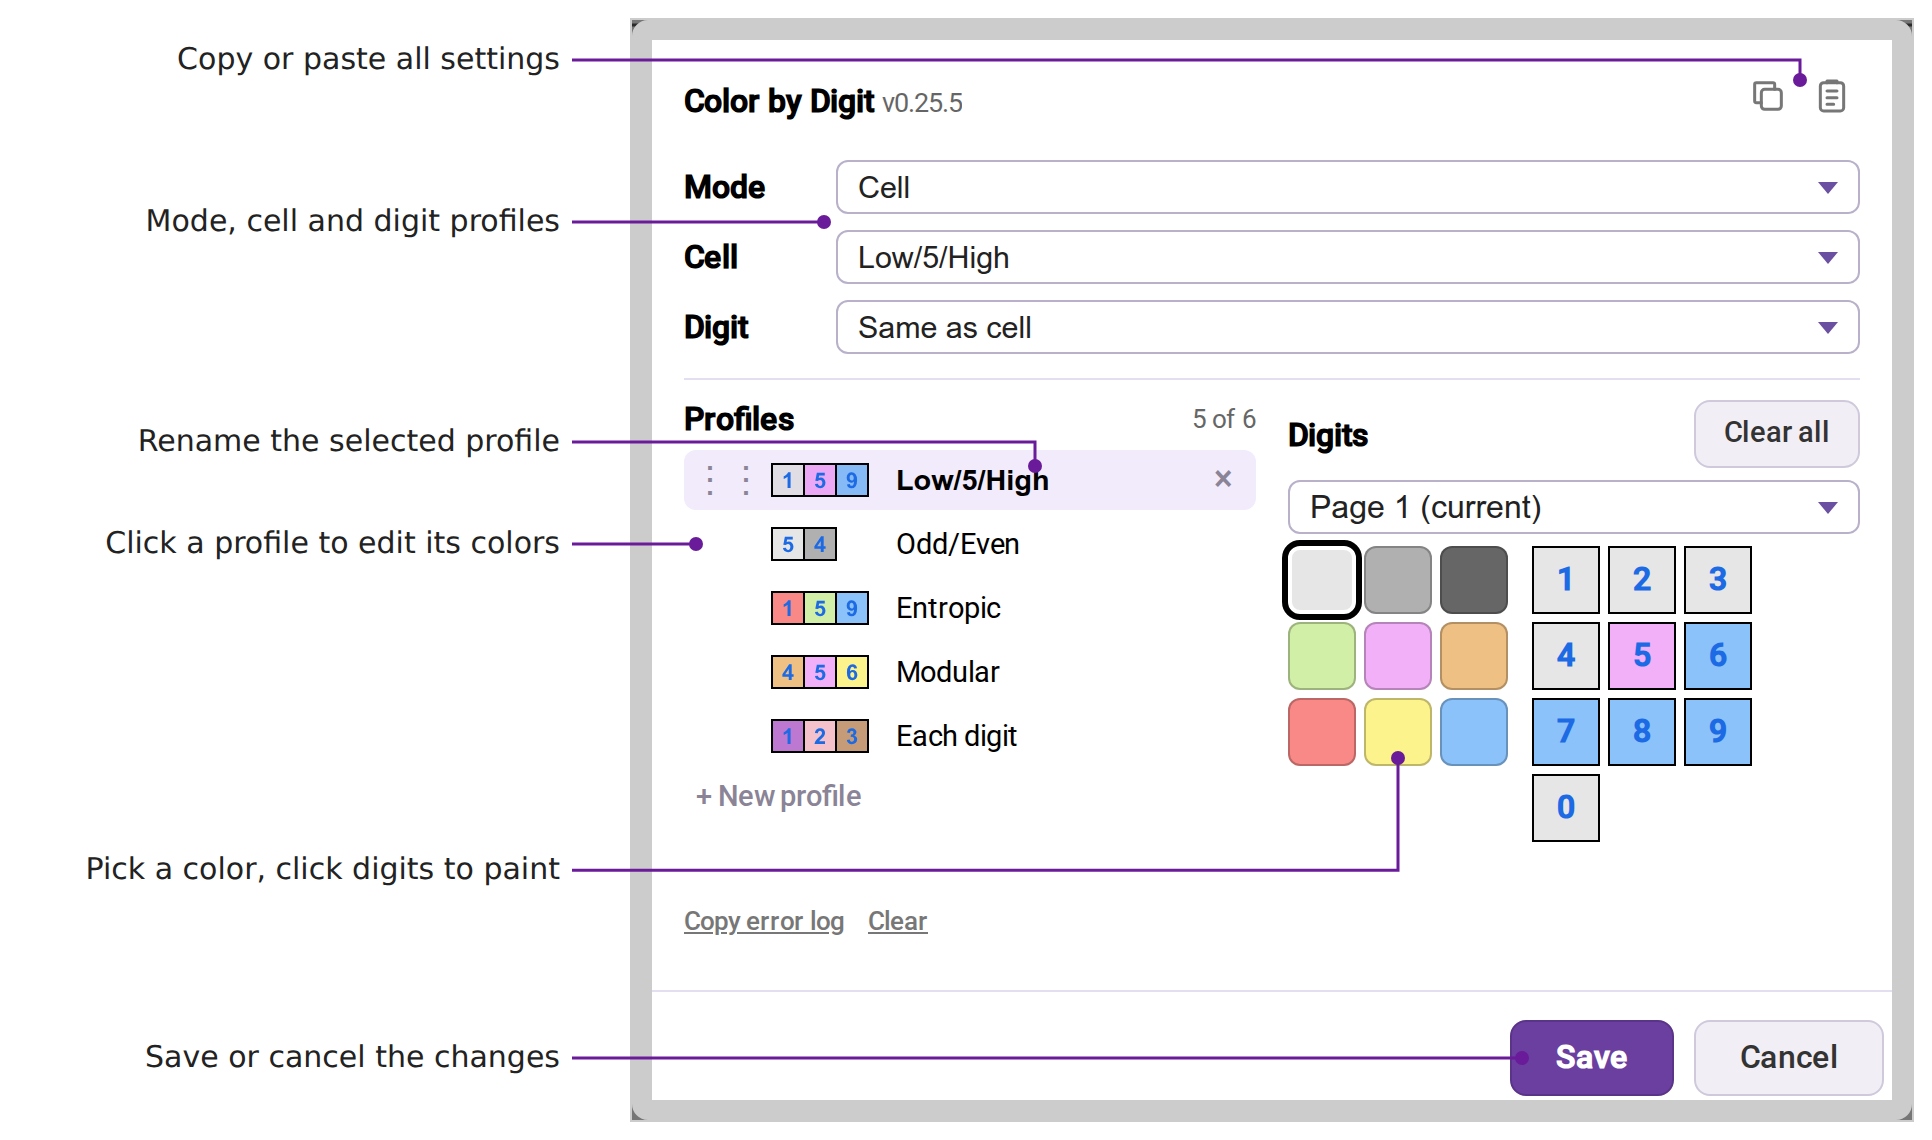
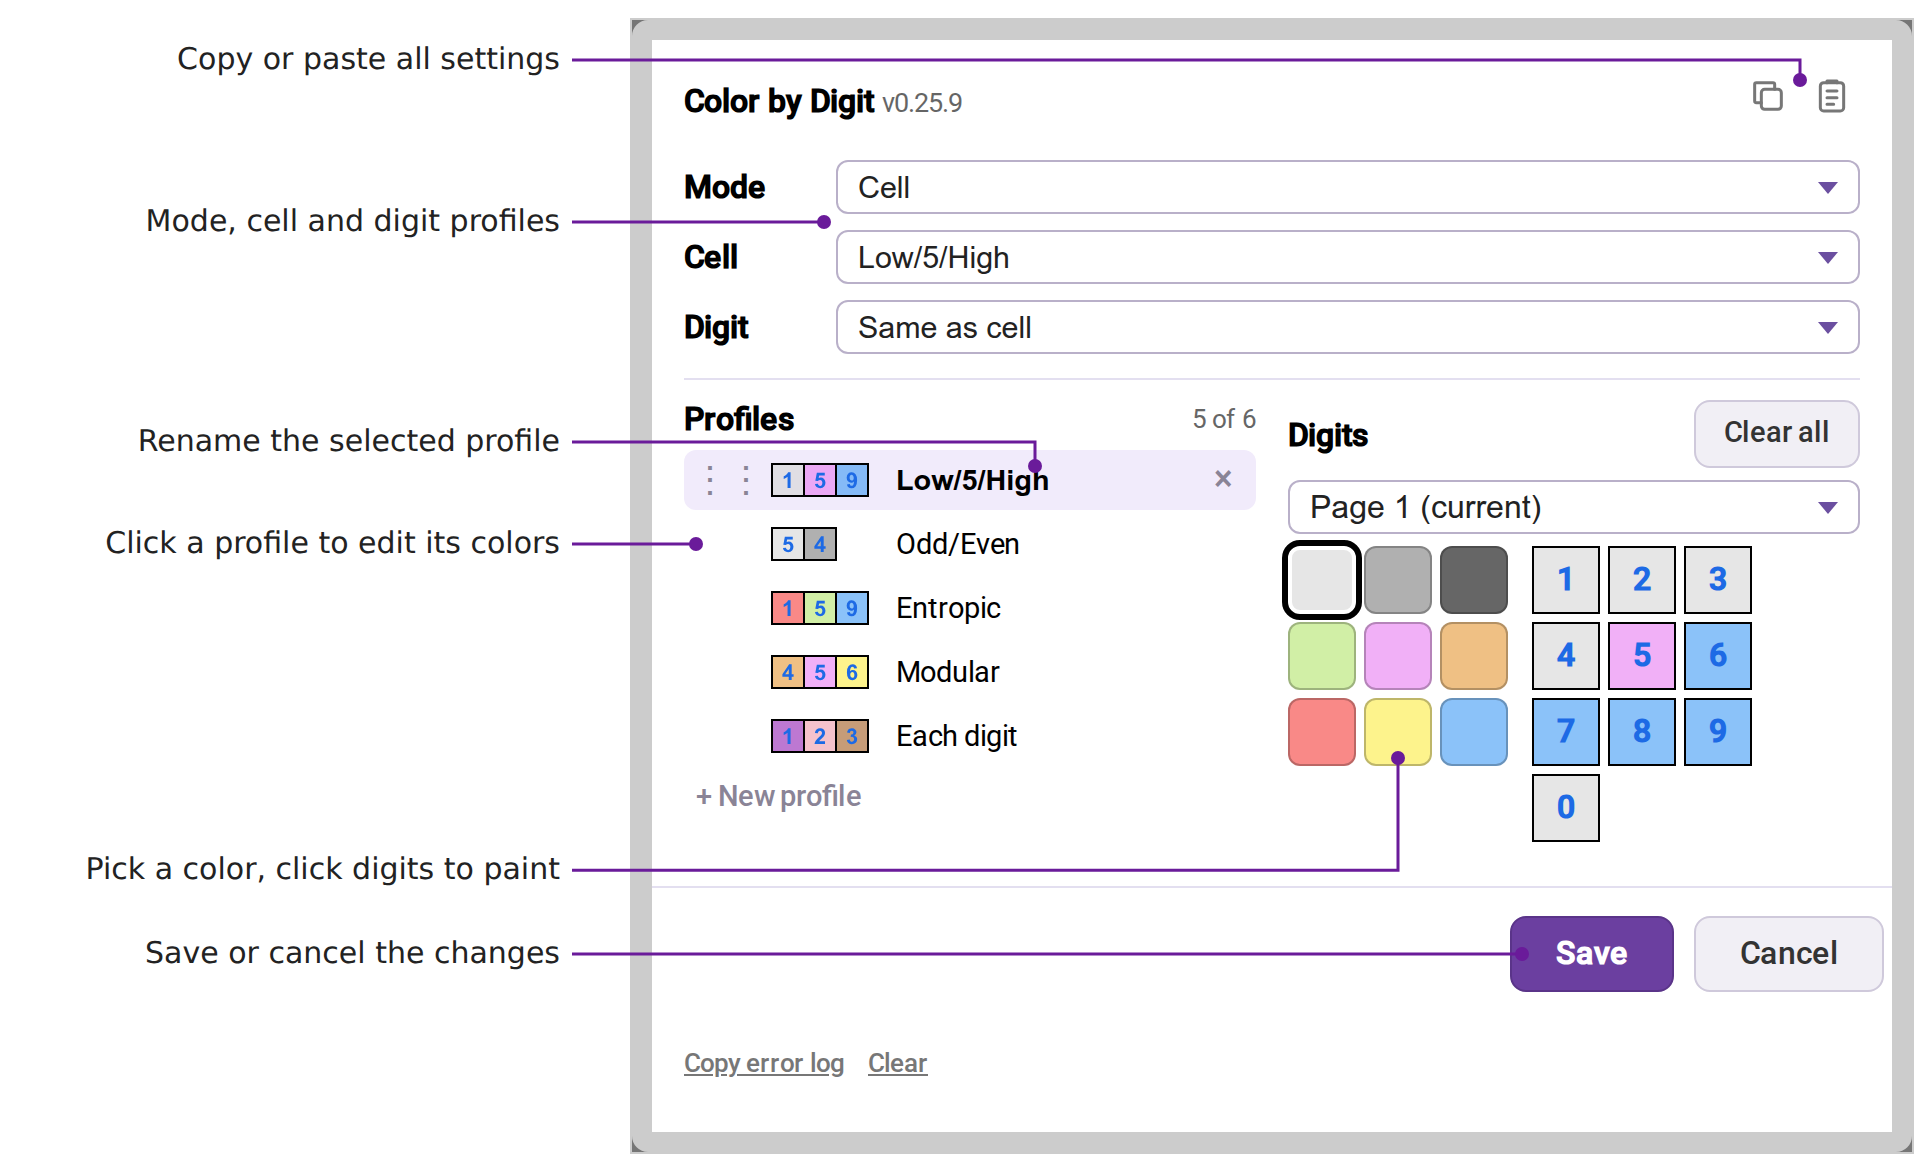
Settings dialog: put the error log row under the footer so a script's layout still reaches the footer line (#583)
The row between the body and the footer stopped Pen Tool Extras' vertical line short of the footer line. Retook the Color by Digit dialog picture.

Closes #583

diff --git a/lib/settings-dialog.test.js b/lib/settings-dialog.test.js
@@ -122,12 +122,12 @@ const shellOptions = (over = {}) => ({ prefix: 'x-', name: 'Demo', version: '1.2
 const shown = (shell) => shell.log.find(([what]) => what === 'show')[1]
 const optionsOf = (shell) => shown(shell).parts.find((part) => part.tag === 'options').options
 
-test('the shell shows the title, then an empty body container the script fills, then the buttons, centered over the board', () => {
+test('the shell shows the title, then an empty body container the script fills, then the buttons, then the error log row, centered over the board', () => {
   const shell = fakeShell()
   showSettingsDialog(shell.framework, shellOptions(), { doc: shell.doc, win: shell.win })
   const config = shown(shell)
   assert.equal(config.centerOverBoard, true)
-  assert.deepEqual(config.parts.map((part) => part.tag), ['text', 'text', 'text', 'options'])
+  assert.deepEqual(config.parts.map((part) => part.tag), ['text', 'text', 'options', 'text'])
   assert.equal(config.parts[0].innerHTML, renderDialogTitle({ prefix: 'x-', name: 'Demo', version: '1.2.3' }))
   assert.equal(config.parts[1].innerHTML, '<div id="demo-body"></div>')
 })
@@ -337,7 +337,7 @@ const RECORD = { time: '2026-11-08T11:00:00.000Z', script: 'draw-tool', version:
 
 test('the dialog has a Copy error log button and a Clear button in a row of their own', () => {
   const { shell } = errorLogShell()
-  const html = shown(shell).parts[2].innerHTML
+  const html = shown(shell).parts[3].innerHTML
   assert.match(html, /data-role="error-log"/)
   assert.match(html, /<button type="button" data-act="copy-error-log">Copy error log<\/button>/)
   assert.match(html, /<button type="button" data-act="clear-error-log">Clear<\/button>/)

diff --git a/site/color-by-digit.html b/site/color-by-digit.html
@@ -56,7 +56,7 @@
 
   <h2>The settings dialog</h2>
   <p class="prose">Edit profiles, in the profile menu, opens it.</p>
-  <div class="figure"><img src="https://raw.githubusercontent.com/caneff/sudokupad-scripts/main/docs/research/color-by-digit/color-by-digit-dialog-annotated.png?v=74623f4" alt="The Color by Digit settings dialog with each part labelled on its left. Settings icons: copy or paste all settings. Pulldowns: mode, cell and digit profiles. Selected profile: rename it in its row. Profile list: click a profile to edit its colors. Palette and digits: click a color, then click or drag across digits to paint them. Bottom row: save or cancel the changes." width="966" height="514"></div>
+  <div class="figure"><img src="https://raw.githubusercontent.com/caneff/sudokupad-scripts/main/docs/research/color-by-digit/color-by-digit-dialog-annotated.png?v=5e8d2ab" alt="The Color by Digit settings dialog with each part labelled on its left. Settings icons: copy or paste all settings. Pulldowns: mode, cell and digit profiles. Selected profile: rename it in its row. Profile list: click a profile to edit its colors. Palette and digits: click a color, then click or drag across digits to paint them. Bottom row: save or cancel the changes." width="966" height="514"></div>
   <p class="prose">A click on a digit already in the chosen color clears it.</p>
   <p class="prose">From the keyboard, Tab and the arrow keys move around the colors and the digit keys, and typing 0 to 9 paints that digit.</p>
 

diff --git a/pen-tool-extras.user.js b/pen-tool-extras.user.js
@@ -2953,7 +2953,7 @@ ${EDITOR} .pen-tool-extras-divider { margin-left: 0; }
     ].join('\n')
   }
 
-  // Under the script's own settings: the log every script's guard writes (lib/sudokupad.js), read and cleared from any one of them.
+  // Under the footer buttons: the log every script's guard writes (lib/sudokupad.js), read and cleared from any one of them.
   function renderErrorLogRow (prefix) {
     return `<style>${errorLogCss(prefix)}</style><div class="${prefix}error-log" ${ERROR_LOG_ATTRIBUTE}><button type="button" data-act="copy-error-log">Copy error log</button><button type="button" data-act="clear-error-log">Clear</button></div>`
   }
@@ -3067,8 +3067,9 @@ ${EDITOR} .pen-tool-extras-divider { margin-left: 0; }
       parts: [
         { tag: 'text', innerHTML: renderDialogTitle({ prefix, name, version }) },
         { tag: 'text', innerHTML: `<div id="${bodyId}"></div>` },
-        { tag: 'text', innerHTML: renderErrorLogRow(prefix) },
-        { tag: 'options', options: buttons.map(({ content, handler }) => ({ tag: 'button', content, handler })) }
+        { tag: 'options', options: buttons.map(({ content, handler }) => ({ tag: 'button', content, handler })) },
+        // Below the footer, so the script's own layout still runs down to the footer line.
+        { tag: 'text', innerHTML: renderErrorLogRow(prefix) }
       ]
     })
     const body = doc.getElementById(bodyId)

diff --git a/lib/settings-dialog.js b/lib/settings-dialog.js
@@ -88,7 +88,7 @@ function errorLogCss (prefix) {
   ].join('\n')
 }
 
-// Under the script's own settings: the log every script's guard writes (lib/sudokupad.js), read and cleared from any one of them.
+// Under the footer buttons: the log every script's guard writes (lib/sudokupad.js), read and cleared from any one of them.
 function renderErrorLogRow (prefix) {
   return `<style>${errorLogCss(prefix)}</style><div class="${prefix}error-log" ${ERROR_LOG_ATTRIBUTE}><button type="button" data-act="copy-error-log">Copy error log</button><button type="button" data-act="clear-error-log">Clear</button></div>`
 }
@@ -202,8 +202,9 @@ function showSettingsDialog (framework, { prefix, name, version, bodyId, styleId
     parts: [
       { tag: 'text', innerHTML: renderDialogTitle({ prefix, name, version }) },
       { tag: 'text', innerHTML: `<div id="${bodyId}"></div>` },
-      { tag: 'text', innerHTML: renderErrorLogRow(prefix) },
-      { tag: 'options', options: buttons.map(({ content, handler }) => ({ tag: 'button', content, handler })) }
+      { tag: 'options', options: buttons.map(({ content, handler }) => ({ tag: 'button', content, handler })) },
+      // Below the footer, so the script's own layout still runs down to the footer line.
+      { tag: 'text', innerHTML: renderErrorLogRow(prefix) }
     ]
   })
   const body = doc.getElementById(bodyId)

diff --git a/color-by-digit.user.js b/color-by-digit.user.js
@@ -1244,7 +1244,7 @@
     ].join('\n')
   }
 
-  // Under the script's own settings: the log every script's guard writes (lib/sudokupad.js), read and cleared from any one of them.
+  // Under the footer buttons: the log every script's guard writes (lib/sudokupad.js), read and cleared from any one of them.
   function renderErrorLogRow (prefix) {
     return `<style>${errorLogCss(prefix)}</style><div class="${prefix}error-log" ${ERROR_LOG_ATTRIBUTE}><button type="button" data-act="copy-error-log">Copy error log</button><button type="button" data-act="clear-error-log">Clear</button></div>`
   }
@@ -1358,8 +1358,9 @@
       parts: [
         { tag: 'text', innerHTML: renderDialogTitle({ prefix, name, version }) },
         { tag: 'text', innerHTML: `<div id="${bodyId}"></div>` },
-        { tag: 'text', innerHTML: renderErrorLogRow(prefix) },
-        { tag: 'options', options: buttons.map(({ content, handler }) => ({ tag: 'button', content, handler })) }
+        { tag: 'options', options: buttons.map(({ content, handler }) => ({ tag: 'button', content, handler })) },
+        // Below the footer, so the script's own layout still runs down to the footer line.
+        { tag: 'text', innerHTML: renderErrorLogRow(prefix) }
       ]
     })
     const body = doc.getElementById(bodyId)

diff --git a/draw-tool.user.js b/draw-tool.user.js
@@ -1199,7 +1199,7 @@
     ].join('\n')
   }
 
-  // Under the script's own settings: the log every script's guard writes (lib/sudokupad.js), read and cleared from any one of them.
+  // Under the footer buttons: the log every script's guard writes (lib/sudokupad.js), read and cleared from any one of them.
   function renderErrorLogRow (prefix) {
     return `<style>${errorLogCss(prefix)}</style><div class="${prefix}error-log" ${ERROR_LOG_ATTRIBUTE}><button type="button" data-act="copy-error-log">Copy error log</button><button type="button" data-act="clear-error-log">Clear</button></div>`
   }
@@ -1313,8 +1313,9 @@
       parts: [
         { tag: 'text', innerHTML: renderDialogTitle({ prefix, name, version }) },
         { tag: 'text', innerHTML: `<div id="${bodyId}"></div>` },
-        { tag: 'text', innerHTML: renderErrorLogRow(prefix) },
-        { tag: 'options', options: buttons.map(({ content, handler }) => ({ tag: 'button', content, handler })) }
+        { tag: 'options', options: buttons.map(({ content, handler }) => ({ tag: 'button', content, handler })) },
+        // Below the footer, so the script's own layout still runs down to the footer line.
+        { tag: 'text', innerHTML: renderErrorLogRow(prefix) }
       ]
     })
     const body = doc.getElementById(bodyId)

diff --git a/auto-rules-resizer.user.js b/auto-rules-resizer.user.js
@@ -396,7 +396,7 @@
     ].join('\n')
   }
 
-  // Under the script's own settings: the log every script's guard writes (lib/sudokupad.js), read and cleared from any one of them.
+  // Under the footer buttons: the log every script's guard writes (lib/sudokupad.js), read and cleared from any one of them.
   function renderErrorLogRow (prefix) {
     return `<style>${errorLogCss(prefix)}</style><div class="${prefix}error-log" ${ERROR_LOG_ATTRIBUTE}><button type="button" data-act="copy-error-log">Copy error log</button><button type="button" data-act="clear-error-log">Clear</button></div>`
   }
@@ -510,8 +510,9 @@
       parts: [
         { tag: 'text', innerHTML: renderDialogTitle({ prefix, name, version }) },
         { tag: 'text', innerHTML: `<div id="${bodyId}"></div>` },
-        { tag: 'text', innerHTML: renderErrorLogRow(prefix) },
-        { tag: 'options', options: buttons.map(({ content, handler }) => ({ tag: 'button', content, handler })) }
+        { tag: 'options', options: buttons.map(({ content, handler }) => ({ tag: 'button', content, handler })) },
+        // Below the footer, so the script's own layout still runs down to the footer line.
+        { tag: 'text', innerHTML: renderErrorLogRow(prefix) }
       ]
     })
     const body = doc.getElementById(bodyId)

diff --git a/dark-page.user.js b/dark-page.user.js
@@ -306,7 +306,7 @@
     ].join('\n')
   }
 
-  // Under the script's own settings: the log every script's guard writes (lib/sudokupad.js), read and cleared from any one of them.
+  // Under the footer buttons: the log every script's guard writes (lib/sudokupad.js), read and cleared from any one of them.
   function renderErrorLogRow (prefix) {
     return `<style>${errorLogCss(prefix)}</style><div class="${prefix}error-log" ${ERROR_LOG_ATTRIBUTE}><button type="button" data-act="copy-error-log">Copy error log</button><button type="button" data-act="clear-error-log">Clear</button></div>`
   }
@@ -420,8 +420,9 @@
       parts: [
         { tag: 'text', innerHTML: renderDialogTitle({ prefix, name, version }) },
         { tag: 'text', innerHTML: `<div id="${bodyId}"></div>` },
-        { tag: 'text', innerHTML: renderErrorLogRow(prefix) },
-        { tag: 'options', options: buttons.map(({ content, handler }) => ({ tag: 'button', content, handler })) }
+        { tag: 'options', options: buttons.map(({ content, handler }) => ({ tag: 'button', content, handler })) },
+        // Below the footer, so the script's own layout still runs down to the footer line.
+        { tag: 'text', innerHTML: renderErrorLogRow(prefix) }
       ]
     })
     const body = doc.getElementById(bodyId)
